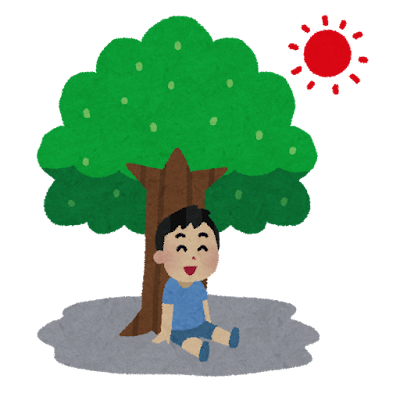
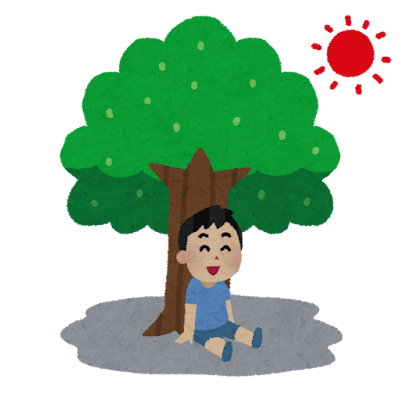
Made the 'finished' state transition back into the 'loaded' state after 5 seconds.

diff --git a/src/routes/(authed)/+page.svelte b/src/routes/(authed)/+page.svelte
@@ -80,6 +80,10 @@
 		} else {
 			currentSubject = undefined;
 			appState = 'finished';
+
+			setTimeout(() => {
+				appState = 'loaded';
+			}, 5000);
 		}
 	}
 
